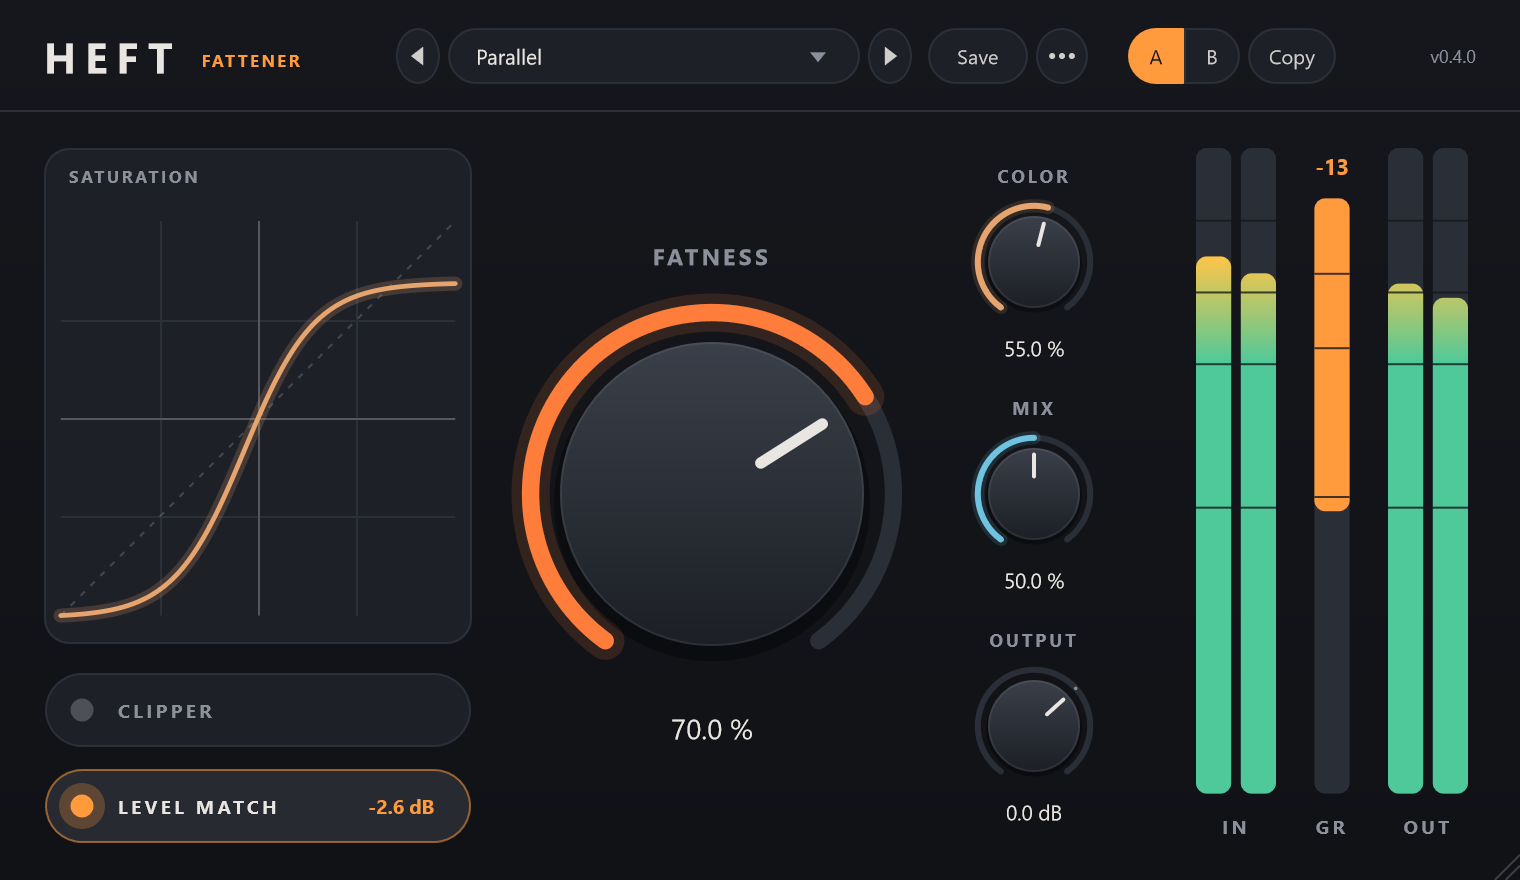
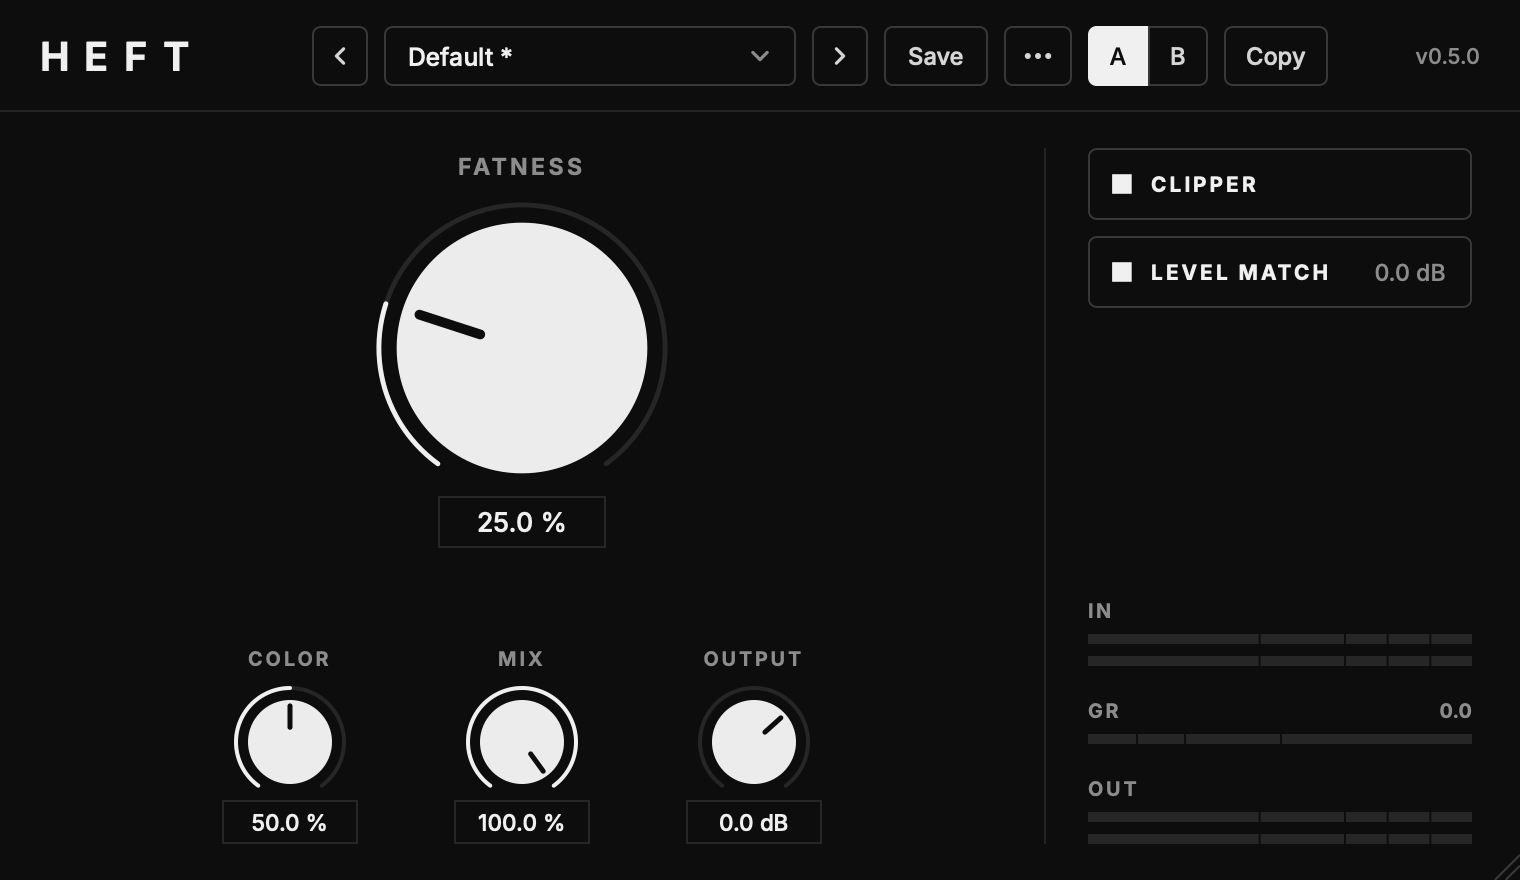
Docs: the black and white interface
New screenshot, no saturation curve, the asterisk is no longer amber, Inter in the file map and the licence note; CHANGELOG entry under Unreleased.

diff --git a/README.md b/README.md
@@ -46,9 +46,6 @@ dry signal → output gain → soft clipper (4x oversampled) → safety clip.
 
 - **Meters**: input and output peak levels (IN / OUT) and the compressor's gain
   reduction (GR) with a numeric readout.
-- **Saturation curve**: the transfer curve of the saturator for the current Fatness
-  and Color. It shows the shape only (scaled to fit), so you can see how hard it bends
-  and how asymmetric it is.
 - **Level Match readout**: with Level Match on, the switch shows the correction being applied.
 - **Knobs**: double-click (or Alt+click) to reset, click the value to type an exact number.
   Hover any control for a tooltip.
@@ -65,7 +62,7 @@ FL Studio, Bitwig, Cubase, Studio One or any other VST3 host.
 | Control | What it does |
 |---|---|
 | **◀ / ▶** | Previous / next preset (factory, then yours), wrapping around at the ends. |
-| **Name** | Click for the list: *Factory* presets, then *User* presets. An amber **\*** means the knobs no longer match the preset; move them back and it goes away. |
+| **Name** | Click for the list: *Factory* presets, then *User* presets. A **\*** after the name means the knobs no longer match the preset; move them back and it goes away. |
 | **Save** | Saves your changes into the current user preset. On a factory preset, *Default* or *Untitled*, it asks for a name instead. |
 | **⋯** | *Save as…*, *Rename…*, *Delete…* (to the Recycle Bin), *Import…* and *Open presets folder*. Rename and Delete only work on your own presets. |
 
@@ -279,7 +276,6 @@ Source/
   UI/HeftLookAndFeel.h    How knobs, switches, buttons, menus and dialogs are drawn
   UI/PresetBar.h          The preset bar and A/B in the header (asks the PresetManager, shows dialogs)
   UI/Meters.h             IN / OUT level meters and the GR meter
-  UI/CurveDisplay.h       Saturation curve display
   DSP/Compressor.h        1. Linked compressor, peak detector, soft knee, makeup
   DSP/TiltFilter.h        2 and 5. Pre-emphasis tilt EQ and its exact inverse
   DSP/Saturator.h         3. Asymmetric tanh (even harmonics)
@@ -291,6 +287,7 @@ Source/
   Presets/PresetFile.h    Reading/writing .heftpreset files and validating names
   Presets/PresetManager.* Preset list, load/save/rename/delete/import, A/B, project state
 Presets/Factory/          Factory presets (.heftpreset), compiled into the plugin
+Fonts/                    Inter, the UI font, compiled into the plugin (licence: Fonts/OFL.txt)
 tests/Measure.cpp         HeftMeasure: loads the VST3 and measures it (build.ps1 -Measure)
 tests/Tests.cpp           HeftTests: unit tests for presets, A/B and project state (build.ps1 -Measure)
 .github/workflows/        GitHub Actions: build + pluginval + HeftMeasure + HeftTests; releases on v* tags
@@ -403,7 +400,7 @@ the GNU Affero General Public License, version 3. See [LICENSE](LICENSE).
 
 It is built with [JUCE](https://juce.com), which is used under its AGPLv3 license.
 The plugin binary also contains third-party code (the VST 3 SDK and the image and
-text libraries bundled with JUCE). Their licenses are reproduced in
+text libraries bundled with JUCE) and the Inter font. Their licenses are reproduced in
 [THIRD_PARTY_NOTICES.txt](THIRD_PARTY_NOTICES.txt), which ships inside every release zip.
 This software is based in part on the work of the Independent JPEG Group.
 

diff --git a/CHANGELOG.md b/CHANGELOG.md
@@ -5,7 +5,11 @@ text of its release on GitHub, so it's written for people who use the plugin.
 
 ## Unreleased
 
-Nothing yet.
+- **New look:** black and white, with solid white knobs, Fatness on its own at the top,
+  and thin horizontal meters. The preset list and the dialogs match it. The saturation
+  curve display is gone. The sound, presets and saved projects are unchanged.
+- The interface uses the Inter font, built into the plugin, so it looks the same on
+  every computer.
 
 ## 0.5.0
 
